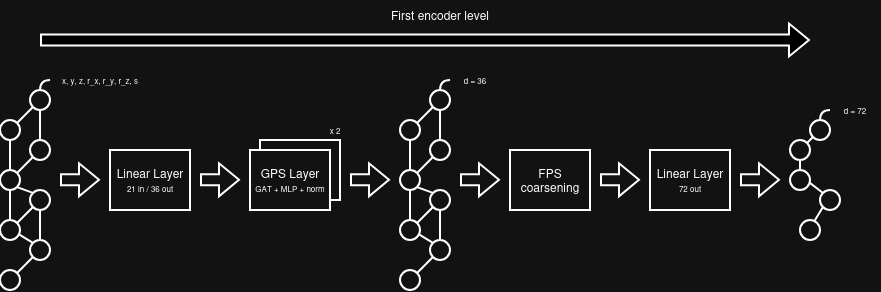
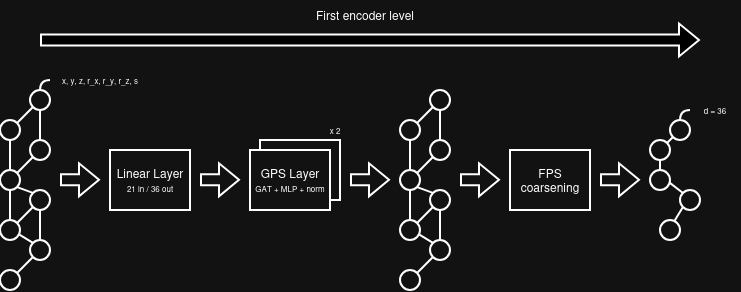
README changes

diff --git a/gvae/models/encoder.py b/gvae/models/encoder.py
@@ -16,38 +16,30 @@ class SceneGraphEncoder(nn.Module):
         super().__init__()
         d = config.D_MODEL
 
-        # input projection for level L
-        self.input_proj_L = nn.Linear(
+        # ------------------------------------------------------------
+        self.input_proj_L = nn.Linear( # Input projection for level L
             config.NUM_CLASSES + 3 + 3, # semantic one-hot + position + radius = 21
             d
         )
-
-        # GPS layer for level L
-        self.gps_L = nn.ModuleList([
+        self.gps_L = nn.ModuleList([ # GPS layer for level L
             GPSLayer(d, num_heads = 8, use_global_attention = False),
             GPSLayer(d, num_heads = 8, use_global_attention = False),
         ])
-
-        # First coarsening (L → L-1)
-        self.coarsen_1 = FPSCoarsening()
-        # input projection for level L-1 (after coarsening)
-        self.input_proj_L1 = nn.Linear(d + config.NUM_CLASSES + 3, d) # add semantic and geometric info to the coarsened features
-        # GPS layer for level L-1 
-        self.gps_L1 = nn.ModuleList([
+        self.coarsen_1 = FPSCoarsening() # First coarsening (L → L-1)
+        # ------------------------------------------------------------
+        self.input_proj_L1 = nn.Linear(d + config.NUM_CLASSES + 3, d) # Input projection for level L-1 (after coarsening)
+        self.gps_L1 = nn.ModuleList([ # GPS layer for level L-1 
             GPSLayer(d, num_heads = 8, use_global_attention = False),
             GPSLayer(d, num_heads = 8, use_global_attention = False),
         ])
-
-        # Second coarsening (L-1 → 1)
-        self.coarsen_2 = FPSCoarsening()
-        # input projection for level 1 (same shape as L-1)
-        self.input_proj_1 = nn.Linear(d + config.NUM_CLASSES + 3, d)
-        # GPS layer for level 1
-        self.gps_1 = nn.ModuleList([
+        self.coarsen_2 = FPSCoarsening() # Second coarsening (L-1 → 1)
+        # ------------------------------------------------------------
+        self.input_proj_1 = nn.Linear(d + config.NUM_CLASSES + 3, d) # Input projection for level 1 (same shape as L-1)
+        self.gps_1 = nn.ModuleList([ # GPS layer for level 1
             GPSLayer(d, num_heads = 8, use_global_attention = True), # global attention at the coarsest level
             GPSLayer(d, num_heads = 8, use_global_attention = True),
         ])
-
+        # ------------------------------------------------------------
         # Gaussian splatting layer to convert node features to voxel grid features
         self.splat_mid = GaussianSplatting(config.GRID_MID) # for mid-level features
         self.splat_coarse = GaussianSplatting(config.GRID_COARSE) # for coarse-level features

diff --git a/README.md b/README.md
@@ -46,6 +46,8 @@ The embedding passed upward is the **pooled output of the instance-level R-GAT**
 
 ### Level 2 — Region graph (G_{L-1})
 
+![Level 2: Instance graph](media/second_encoder_level.png)
+
 The region encoder is initialised from the concatenation of inherited embeddings and the supernode's own geometric attributes, projected to the working dimension `d`. A second shallow R-GAT with PointROPE refines these embeddings over the coarser graph topology.
 
 ### Coarsening: G_{L-1} → G_1